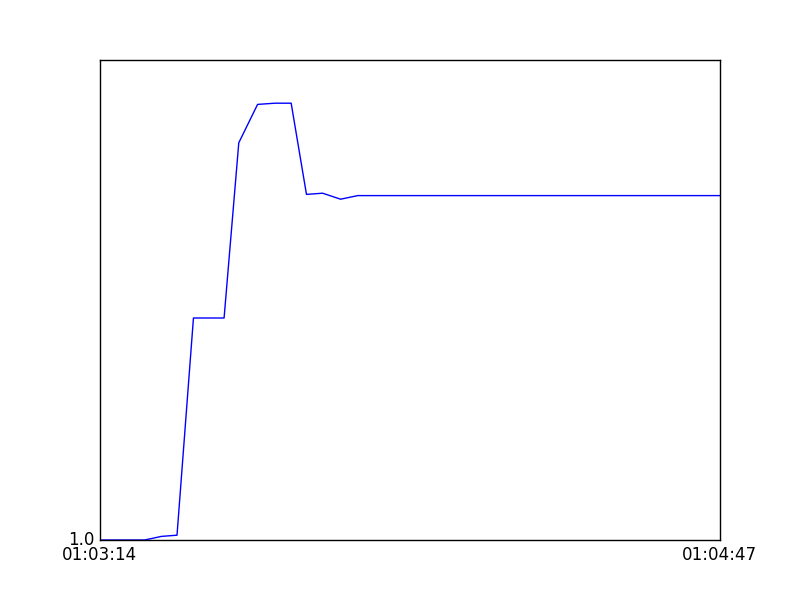
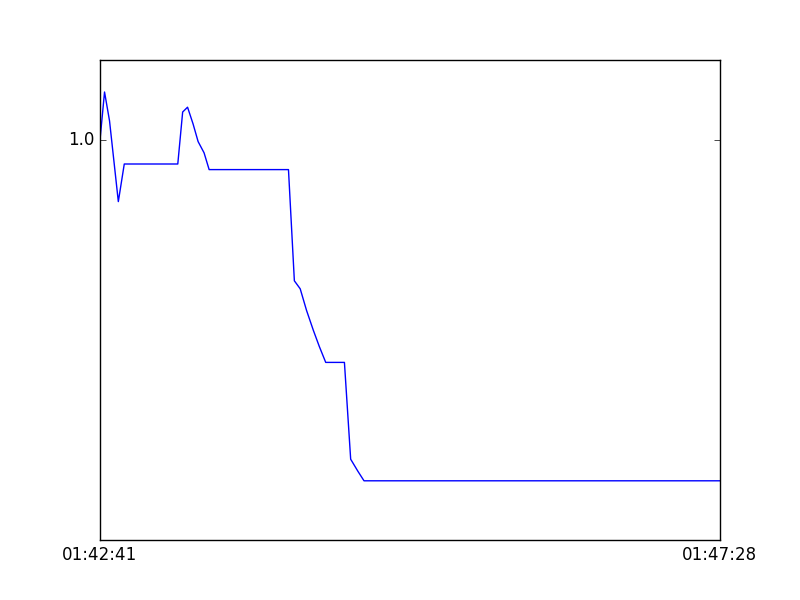
Last Layout

diff --git a/LiveStreamPythonApp/Report.py b/LiveStreamPythonApp/Report.py
@@ -83,15 +83,11 @@ class Report(object):
         dates = [datetime.datetime.strptime(x, '%Y-%m-%d %H:%M:%S.%f') for x in self.dates]
         plt.plot(dates, self.holdings)
         plt.gca().yaxis.set_minor_formatter(NullFormatter())
-        plt.gca().yaxis.set_major_locator( MultipleLocator(base=0.1) )
-        plt.gca().yaxis.set_major_formatter(FormatStrFormatter('%0.1f'))
+        plt.gca().yaxis.set_major_locator( MultipleLocator(base=0.5) )
+        plt.gca().yaxis.set_major_formatter(FormatStrFormatter('%0.01f'))
         plt.gca().xaxis.set_minor_formatter(NullFormatter())
         plt.gca().xaxis.set_major_formatter(DateFormatter('%H:%M:%S'))
         plt.gca().xaxis.set_major_locator( MinuteLocator(interval = 15) )
-        plt.twinx()
-        plt.plot(dates, self.market_mids)
-        plt.gca().yaxis.set_major_locator( MultipleLocator(base=10) )
-        plt.gca().yaxis.set_major_formatter(FormatStrFormatter('%0.1f'))
         plt.savefig('Graphs/posGraph.png')
         pic = QtGui.QPixmap("Graphs/posGraph.png").scaled(400, 300)
         scene.addItem(QtWidgets.QGraphicsPixmapItem(pic)) 

diff --git a/LiveStreamPythonApp/fullapplayout.py b/LiveStreamPythonApp/fullapplayout.py
@@ -991,7 +991,7 @@ class Ui_StackedWidget(object):
         self.cryptoCurrencyLabel_2.setText(_translate("StackedWidget", "Number of Layers"))
         self.maxHoldingUnitOfCryptoCurrencyLabel_2.setText(_translate("StackedWidget", "Number of Neurons per Layer"))
         self.label_13.setText(_translate("StackedWidget", "- Cumulative Return Index"))
-        self.label_14.setText(_translate("StackedWidget", "- BitCoin Holdings vs BTC Price"))
+        self.label_14.setText(_translate("StackedWidget", "- Crypto Currency Holdings in units"))
         self.label_17.setText(_translate("StackedWidget", "Start: "))
         self.label_18.setText(_translate("StackedWidget", "End: "))
         self.label_20.setText(_translate("StackedWidget", "Return: "))
